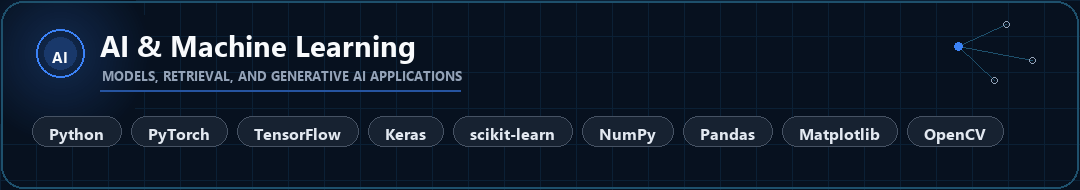
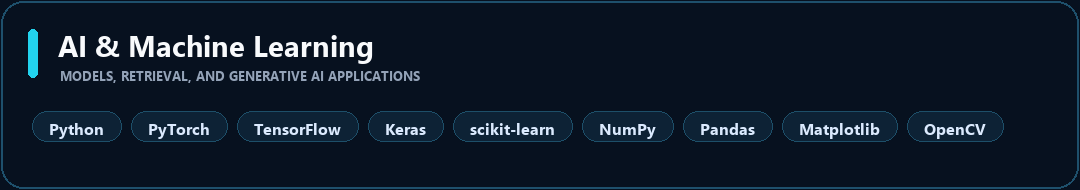
Revert toolkit cards to a flat, per-category accent style
Drop the grid/glow/network-node treatment in favor of the simpler
flat card look (thin left accent bar, distinct color per category)
per feedback that the busier tech styling didn't read as cleanly.

diff --git a/tools/generate_toolkit_cards.py b/tools/generate_toolkit_cards.py
@@ -1,8 +1,4 @@
-"""Render tech-styled horizontal toolkit cards for the GitHub profile README.
-
-Visual language matches the animated banner: dark navy base, a fine
-technical grid, radial glow accents, and a small network-node motif.
-"""
+"""Render clean, flat horizontal toolkit cards for the GitHub profile README."""
 
 from pathlib import Path
 
@@ -12,113 +8,57 @@ from PIL import Image, ImageDraw, ImageFont
 ROOT = Path(__file__).resolve().parents[1]
 OUT = ROOT / "assets" / "toolkit-cards"
 FONT = "C:/Windows/Fonts/segoeuib.ttf"
-FONT_BOLD = "C:/Windows/Fonts/segoeuib.ttf"
 W, H = 1080, 190
-BG = "#07111f"
-GRID = "#0b2035"
-BORDER = "#1e506c"
-ACCENT = "#3b82f6"
-SILVER = "#94a3b8"
 
 CARDS = (
     (
         "toolkit-ai-ml.png",
-        "AI",
         "AI & Machine Learning",
         "MODELS, RETRIEVAL, AND GENERATIVE AI APPLICATIONS",
         ("Python", "PyTorch", "TensorFlow", "Keras", "scikit-learn", "NumPy", "Pandas", "Matplotlib", "OpenCV"),
+        "#22d3ee",
     ),
     (
         "toolkit-languages-web.png",
-        "</>",
         "Languages & Web",
         "CORE LANGUAGES AND WEB DELIVERY",
         ("C++", "Java", "JavaScript", "Next.js", "WordPress"),
+        "#a78bfa",
     ),
     (
         "toolkit-tools-hardware.png",
-        "OPS",
         "Tools, Design & Hardware",
         "BUILD, VERSION, DESIGN, AND DEPLOY TO THE EDGE",
         ("Git", "GitHub", "Photoshop", "Canva", "Raspberry Pi"),
+        "#f59e0b",
     ),
 )
 
 
-def font(size: int, bold: bool = False) -> ImageFont.FreeTypeFont:
-    return ImageFont.truetype(FONT_BOLD if bold else FONT, size)
-
-
-def hex_to_rgb(value: str) -> tuple[int, int, int]:
-    value = value.lstrip("#")
-    return int(value[0:2], 16), int(value[2:4], 16), int(value[4:6], 16)
-
-
-def blend(base: tuple[int, int, int], accent: tuple[int, int, int], t: float) -> tuple[int, int, int]:
-    return tuple(int(base[c] + (accent[c] - base[c]) * t) for c in range(3))
+def font(size: int) -> ImageFont.FreeTypeFont:
+    return ImageFont.truetype(FONT, size)
 
 
 def tag_width(draw: ImageDraw.ImageDraw, value: str, tag_font: ImageFont.FreeTypeFont) -> int:
     return int(draw.textbbox((0, 0), value, font=tag_font)[2]) + 34
 
 
-def draw_grid(draw: ImageDraw.ImageDraw) -> None:
-    for x in range(0, W, 36):
-        draw.line((x, 0, x, H), fill=GRID, width=1)
-    for y in range(0, H, 36):
-        draw.line((0, y, W, y), fill=GRID, width=1)
-
-
-def draw_glow(draw: ImageDraw.ImageDraw, center: tuple[int, int], radius: int, accent_rgb: tuple[int, int, int], base_rgb: tuple[int, int, int]) -> None:
-    cx, cy = center
-    for r in range(radius, 4, -3):
-        t = 0.22 * (1 - r / radius)
-        color = blend(base_rgb, accent_rgb, t)
-        draw.ellipse((cx - r, cy - r, cx + r, cy + r), fill=color)
-
-
-def draw_network(draw: ImageDraw.ImageDraw) -> None:
-    hub = (958, 46)
-    satellites = [(1006, 24), (1032, 60), (994, 80)]
-    for point in satellites:
-        draw.line((hub, point), fill=BORDER, width=1)
-        draw.ellipse((point[0] - 3, point[1] - 3, point[0] + 3, point[1] + 3), outline=SILVER, width=1)
-    draw.ellipse((hub[0] - 4, hub[1] - 4, hub[0] + 4, hub[1] + 4), fill=ACCENT)
-
-
-def render(filename: str, glyph: str, title: str, subtitle: str, tags: tuple[str, ...]) -> None:
-    base_rgb = hex_to_rgb(BG)
-    accent_rgb = hex_to_rgb(ACCENT)
-    silver_rgb = hex_to_rgb(SILVER)
-
-    image = Image.new("RGB", (W, H), BG)
+def render(filename: str, title: str, subtitle: str, tags: tuple[str, ...], accent: str) -> None:
+    image = Image.new("RGB", (W, H), "#07111f")
     draw = ImageDraw.Draw(image)
-    draw_grid(draw)
-    draw_glow(draw, (60, 53), 92, accent_rgb, base_rgb)
-    draw_network(draw)
-    draw.rounded_rectangle((1, 1, W - 2, H - 2), radius=22, outline=BORDER, width=2)
-
-    # Node-style icon badge, echoing the banner's AI nucleus motif.
-    icon_font = font(15 if len(glyph) <= 3 else 12, bold=True)
-    draw.ellipse((36, 29, 84, 77), outline=ACCENT, width=2)
-    draw.ellipse((44, 37, 76, 69), fill=blend(base_rgb, accent_rgb, 0.35))
-    gw = draw.textbbox((0, 0), glyph, font=icon_font)[2]
-    draw.text((60 - gw / 2, 46), glyph, font=icon_font, fill="#f8fafc")
-
-    draw.text((100, 25), title, font=font(29), fill="#f8fafc")
-    draw.text((102, 66), subtitle, font=font(13), fill=SILVER)
-    draw.line((100, 90, 100 + draw.textbbox((0, 0), subtitle, font=font(13))[2], 90), fill=blend(base_rgb, accent_rgb, 0.6), width=2)
+    draw.rounded_rectangle((1, 1, W - 2, H - 2), radius=22, outline="#1e506c", width=2)
+    draw.rounded_rectangle((28, 29, 37, 77), radius=4, fill=accent)
+    draw.text((58, 25), title, font=font(29), fill="#f8fafc")
+    draw.text((60, 66), subtitle, font=font(13), fill="#94a3b8")
 
     tag_font = font(16)
-    x, y = 32, 116
-    tag_fill = blend(base_rgb, silver_rgb, 0.12)
-    tag_border = blend(base_rgb, silver_rgb, 0.45)
+    x, y = 32, 111
     for tag in tags:
         width = tag_width(draw, tag, tag_font)
         if x + width > W - 32:
             x, y = 32, y + 42
-        draw.rounded_rectangle((x, y, x + width, y + 30), radius=15, fill=tag_fill, outline=tag_border, width=1)
-        draw.text((x + 17, y + 6), tag, font=tag_font, fill="#e2e8f0")
+        draw.rounded_rectangle((x, y, x + width, y + 30), radius=15, fill="#0d2235", outline="#1d4f69", width=1)
+        draw.text((x + 17, y + 6), tag, font=tag_font, fill="#dbeafe")
         x += width + 10
 
     image.save(OUT / filename, optimize=True)
